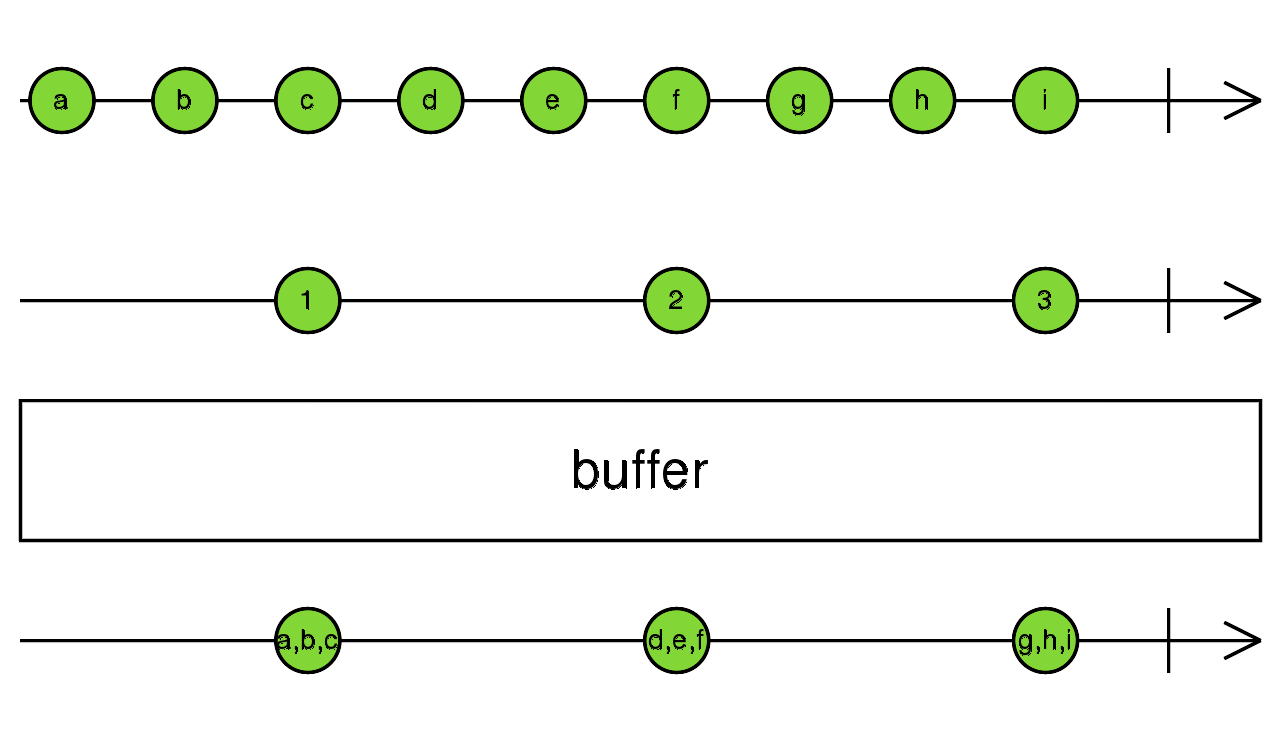
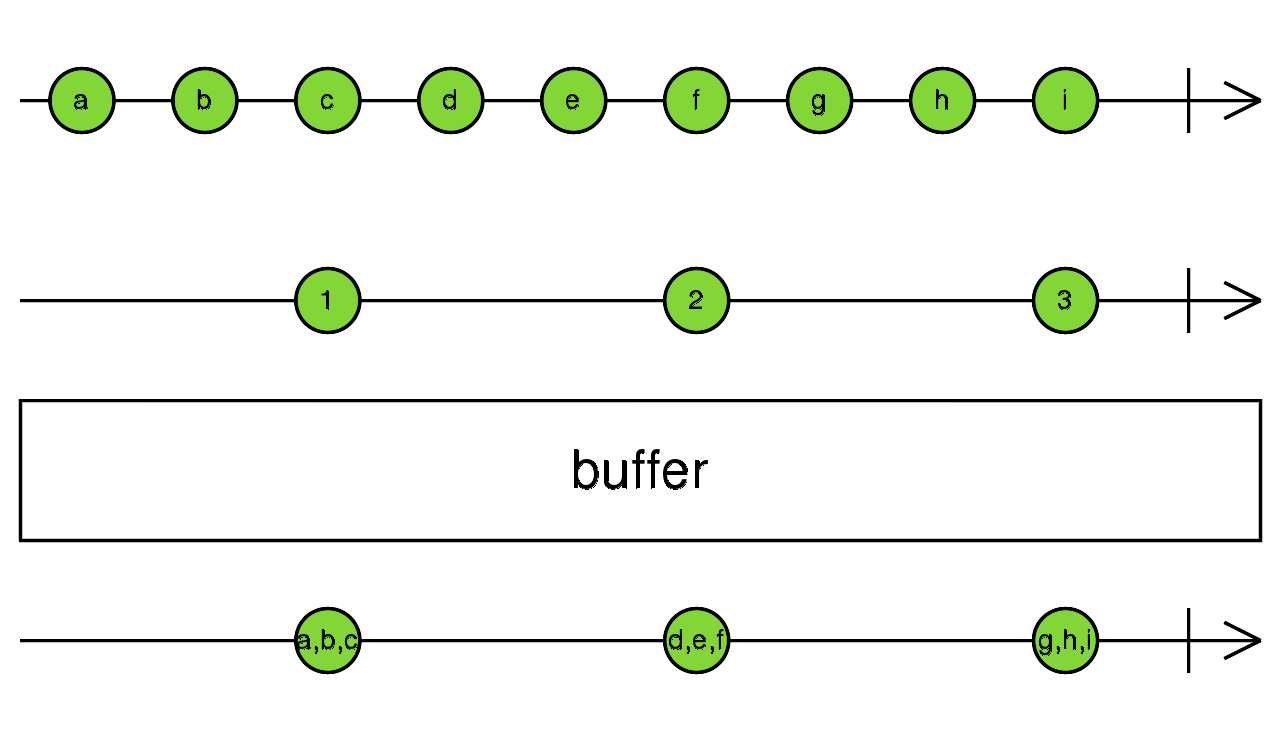
chore(tests2png): support diagrams of cold observables
Support drawing diagrams of cold observables with an offset in time to account for the time they get
subscribed to, specially important in diagrams such as for the concat operator.

For issue #697.

diff --git a/spec/helpers/tests2png/painter.js b/spec/helpers/tests2png/painter.js
@@ -9,91 +9,96 @@ var ARROW_HEAD_SIZE = 18;
 var OBSERVABLE_END_PADDING = 4 * ARROW_HEAD_SIZE;
 var MARBLE_RADIUS = 32;
 var SIN_45 = 0.707106;
+var MESSAGES_WIDTH = (CANVAS_WIDTH - 2 * CANVAS_PADDING - OBSERVABLE_END_PADDING);
 
-function getMaxFrame() {
-  var argsLength = arguments.length;
+function getMaxFrame(allStreams) {
+  var allStreamsLen = allStreams.length;
   var max = 0;
-  for (var i = 0; i < argsLength; i++) {
-    var messagesLen = arguments[i].length;
+  for (var i = 0; i < allStreamsLen; i++) {
+    var messagesLen = allStreams[i].messages.length;
     for (var j = 0; j < messagesLen; j++) {
-      if (arguments[i][j].frame > max) {
-        max = arguments[i][j].frame;
+      if (allStreams[i].messages[j].frame > max) {
+        max = allStreams[i].messages[j].frame;
       }
     }
   }
   return max;
 }
 
-function drawObservableArrow(out, y) {
+function drawObservableArrow(out, maxFrame, y, streamData) {
+  var startX = CANVAS_PADDING +
+    MESSAGES_WIDTH * (streamData.subscription.start / maxFrame);
+  var endX = (streamData.subscription.end === '100%') ?
+    CANVAS_WIDTH - CANVAS_PADDING :
+    CANVAS_PADDING + MESSAGES_WIDTH * (streamData.subscription.end / maxFrame) + OBSERVABLE_END_PADDING;
+
   out = out.stroke('#000000', 3);
-  out = out.drawLine(
-    CANVAS_PADDING,
-    y,
-    CANVAS_WIDTH - CANVAS_PADDING,
-    y);
-  out = out.drawLine(
-    CANVAS_WIDTH - CANVAS_PADDING,
-    y,
-    CANVAS_WIDTH - CANVAS_PADDING - ARROW_HEAD_SIZE * 2,
-    y - ARROW_HEAD_SIZE);
-  out = out.drawLine(
-    CANVAS_WIDTH - CANVAS_PADDING,
-    y,
-    CANVAS_WIDTH - CANVAS_PADDING - ARROW_HEAD_SIZE * 2,
-    y + ARROW_HEAD_SIZE);
+  out = out.drawLine(startX, y, endX, y);
+  out = out.drawLine(endX, y, endX - ARROW_HEAD_SIZE * 2, y - ARROW_HEAD_SIZE);
+  out = out.drawLine(endX, y, endX - ARROW_HEAD_SIZE * 2, y + ARROW_HEAD_SIZE);
   return out;
 }
 
-function drawObservableMessages(out, maxFrame, messages, y) {
-  var messagesWidth = (CANVAS_WIDTH - 2 * CANVAS_PADDING - OBSERVABLE_END_PADDING);
-  messages.forEach(function (message) {
-    var x = messagesWidth * (message.frame / maxFrame);
+function drawMarble(out, x, y, content) {
+  out = out.stroke('#000000', 3);
+  out = out.fill('#82D736');
+  out = out.drawEllipse(x, y, MARBLE_RADIUS, MARBLE_RADIUS, 0, 360);
+
+  out = out.strokeWidth(-1);
+  out = out.fill('#000000');
+  out = out.font('helvetica', 28);
+  out = out.draw(
+    'translate ' + (x - CANVAS_WIDTH * 0.5) + ',' + (y - canvasHeight * 0.5),
+    'gravity Center',
+    'text 0,0',
+    String('"' + content + '"'));
+  return out;
+}
+
+function drawError(out, x, y) {
+  out = out.stroke('#000000', 3);
+  out = out.drawLine(
+    x - MARBLE_RADIUS * SIN_45, y - MARBLE_RADIUS * SIN_45,
+    x + MARBLE_RADIUS * SIN_45, y + MARBLE_RADIUS * SIN_45);
+  out = out.drawLine(
+    x + MARBLE_RADIUS * SIN_45, y - MARBLE_RADIUS * SIN_45,
+    x - MARBLE_RADIUS * SIN_45, y + MARBLE_RADIUS * SIN_45);
+  return out;
+}
+
+function drawComplete(out, x, y) {
+  out = out.stroke('#000000', 3);
+  out = out.drawLine(x, y - MARBLE_RADIUS, x, y + MARBLE_RADIUS);
+  return out;
+}
+
+function drawObservableMessages(out, maxFrame, y, streamData) {
+  var startX = CANVAS_PADDING +
+    MESSAGES_WIDTH * (streamData.subscription.start / maxFrame);
+
+  streamData.messages.forEach(function (message) {
+    var x = startX + MESSAGES_WIDTH * (message.frame / maxFrame);
     switch (message.notification.kind) {
-      case 'N':
-        out = out.stroke('#000000', 3);
-        out = out.fill('#82D736');
-        out = out.drawEllipse(x, y, MARBLE_RADIUS, MARBLE_RADIUS, 0, 360);
-
-        out = out.strokeWidth(-1);
-        out = out.fill('#000000');
-        out = out.font('helvetica', 28);
-        out = out.draw(
-          'translate ' + (x - CANVAS_WIDTH * 0.5) + ',' + (y - canvasHeight * 0.5),
-          'gravity Center',
-          'text 0,0',
-          String('"'+message.notification.value+'"'));
-        break;
-
-      case 'E':
-        out = out.stroke('#000000', 3);
-        out = out.drawLine(
-          x - MARBLE_RADIUS * SIN_45, y - MARBLE_RADIUS * SIN_45,
-          x + MARBLE_RADIUS * SIN_45, y + MARBLE_RADIUS * SIN_45);
-        out = out.drawLine(
-          x + MARBLE_RADIUS * SIN_45, y - MARBLE_RADIUS * SIN_45,
-          x - MARBLE_RADIUS * SIN_45, y + MARBLE_RADIUS * SIN_45);
-        break;
-
-      case 'C':
-        out = out.stroke('#000000', 3);
-        out = out.drawLine(x, y - MARBLE_RADIUS, x, y + MARBLE_RADIUS);
-        break;
+    case 'N': out = drawMarble(out, x, y, message.notification.value); break;
+    case 'E': out = drawError(out, x, y); break;
+    case 'C': out = drawComplete(out, x, y); break;
+    default: break;
     }
   });
   return out;
 }
 
-function drawInputObservable(out, testMessages, index, maxFrame) {
+function drawInputObservable(out, maxFrame, index, streamData) {
   var y = OBSERVABLE_HEIGHT * (index + 0.5);
-  out = drawObservableArrow(out, y);
-  out = drawObservableMessages(out, maxFrame, testMessages, y);
+  out = drawObservableArrow(out, maxFrame, y, streamData);
+  out = drawObservableMessages(out, maxFrame, y, streamData);
   return out;
 }
 
-function drawOutputObservable(out, testMessages, numInputs, maxFrame) {
+function drawOutputObservable(out, maxFrame, numInputs, streamData) {
   var y = (numInputs + 0.5) * OBSERVABLE_HEIGHT + OPERATOR_HEIGHT;
-  out = drawObservableArrow(out, y);
-  out = drawObservableMessages(out, maxFrame, testMessages, y);
+  out = drawObservableArrow(out, maxFrame, y, streamData);
+  out = drawObservableMessages(out, maxFrame, y, streamData);
   return out;
 }
 
@@ -116,7 +121,7 @@ function drawOperator(out, label, numInputs) {
 }
 
 module.exports = function painter(inputStreams, operatorLabel, outputStream) {
-  var maxFrame = getMaxFrame(inputStreams, outputStream);
+  var maxFrame = getMaxFrame(inputStreams.concat(outputStream));
   canvasHeight =
     inputStreams.length * OBSERVABLE_HEIGHT +
     OPERATOR_HEIGHT +
@@ -125,10 +130,10 @@ module.exports = function painter(inputStreams, operatorLabel, outputStream) {
   var out;
   out = gm(CANVAS_WIDTH, canvasHeight, '#ffffff');
   inputStreams.forEach(function (inputTestMessages, index) {
-    out = drawInputObservable(out, inputTestMessages, index, maxFrame);
+    out = drawInputObservable(out, maxFrame, index, inputTestMessages);
   });
   out = drawOperator(out, operatorLabel, inputStreams.length);
-  out = drawOutputObservable(out, outputStream, inputStreams.length, maxFrame);
+  out = drawOutputObservable(out, maxFrame, inputStreams.length, outputStream);
 
   out.write('./img/' + operatorLabel + '.png', function (err) {
     if (err) {

diff --git a/spec/helpers/tests2png/diagram-test-runner.js b/spec/helpers/tests2png/diagram-test-runner.js
@@ -10,6 +10,39 @@ global.hot = marbleHelpers.hot;
 global.expectObservable = marbleHelpers.expectObservable;
 global.expectSubscriptions = marbleHelpers.expectSubscriptions;
 
+function getInputStreams(rxTestScheduler) {
+  return Array.prototype.concat.call([],
+    rxTestScheduler.hotObservables
+      .map(function (hot) {
+        return {
+          messages: hot.messages,
+          subscription: {start: 0, end: '100%'},
+        };
+      })
+      .slice(),
+    rxTestScheduler.coldObservables
+      .map(function (cold) {
+        return {
+          messages: cold.messages,
+          cold: cold,
+        };
+      })
+      .slice()
+  );
+}
+
+function updateInputStreamsPostFlush(inputStreams, rxTestScheduler) {
+  return inputStreams.map(function (singleInputStream) {
+    if (singleInputStream.cold) {
+      singleInputStream.subscription = {
+        start: singleInputStream.cold.subscriptions[0].subscribedFrame,
+        end: singleInputStream.cold.subscriptions[0].unsubscribedFrame,
+      };
+    }
+    return singleInputStream;
+  });
+}
+
 var glit = global.it;
 
 global.it = function (description, specFn, timeout) { };
@@ -21,15 +54,17 @@ global.it.asDiagram = function asDiagram(operatorLabel) {
         var outputStream;
         global.rxTestScheduler = new Rx.TestScheduler(function (actual) {
           if (Array.isArray(actual) && typeof actual[0].frame === 'number') {
-            outputStream = actual;
+            outputStream = {
+              messages: actual,
+              subscription: {start: 0, end: '100%'}
+            };
           }
           return true;
         });
         specFn();
-        var inputStreams = global.rxTestScheduler.hotObservables
-          .map(function (hot) { return hot.messages; })
-          .slice();
+        var inputStreams = getInputStreams(global.rxTestScheduler);
         global.rxTestScheduler.flush();
+        inputStreams = updateInputStreamsPostFlush(inputStreams, rxTestScheduler);
         painter(inputStreams, operatorLabel, outputStream);
         console.log('Painted img/' + operatorLabel + '.png');
       });

diff --git a/spec/operators/count-spec.js b/spec/operators/count-spec.js
@@ -3,6 +3,15 @@ var Rx = require('../../dist/cjs/Rx');
 var Observable = Rx.Observable;
 
 describe('count', function () {
+  it.asDiagram('count')('should count the values of an observable', function () {
+    var source = hot('--a--b--c--|');
+    var subs =       '^          !';
+    var expected =   '-----------(x|)';
+
+    expectObservable(source.count()).toBe(expected, {x: 3});
+    expectSubscriptions(source.subscriptions).toBe(subs);
+  });
+
   it('should be never when source is never', function () {
     var e1 =  cold('-');
     var e1subs =   '^';
@@ -46,15 +55,6 @@ describe('count', function () {
 
     expectObservable(e1.count()).toBe(expected, { w: 1 });
     expectSubscriptions(e1.subscriptions).toBe(e1subs);
-  });
-
-  it('should count the values of an observable', function () {
-    var source = hot('--a--b--c--|');
-    var subs =       '^          !';
-    var expected =   '-----------(x|)';
-
-    expectObservable(source.count()).toBe(expected, {x: 3});
-    expectSubscriptions(source.subscriptions).toBe(subs);
   });
 
   it('should count the values of an ongoing hot observable', function () {

diff --git a/src/testing/TestScheduler.ts b/src/testing/TestScheduler.ts
@@ -18,6 +18,7 @@ export type subscriptionLogsToBeFn = (marbles: string | string[]) => void;
 
 export class TestScheduler extends VirtualTimeScheduler {
   private hotObservables: HotObservable<any>[] = [];
+  private coldObservables: ColdObservable<any>[] = [];
   private flushTests: FlushableTest[] = [];
 
   constructor(public assertDeepEqual: (actual: any, expected: any) => boolean | void) {
@@ -32,7 +33,9 @@ export class TestScheduler extends VirtualTimeScheduler {
       throw new Error('Cold observable cannot have unsubscription marker "!"');
     }
     const messages = TestScheduler.parseMarbles(marbles, values, error);
-    return new ColdObservable(messages, this);
+    const cold = new ColdObservable(messages, this);
+    this.coldObservables.push(cold);
+    return cold;
   }
 
   createHotObservable<T>(marbles: string, values?: any, error?: any): Subject<T> {

diff --git a/spec/operators/bufferTime-spec.js b/spec/operators/bufferTime-spec.js
@@ -4,9 +4,9 @@ var Observable = Rx.Observable;
 
 describe('Observable.prototype.bufferTime', function () {
   it.asDiagram('bufferTime(100)')('should emit buffers at intervals', function () {
-    var e1 =   hot('---a---b---c---d---e---f---g---|');
-    var subs =     '^                              !';
-    var expected = '----------w---------x---------y(z|)';
+    var e1 =   hot('---a---b---c---d---e---f---g-----|');
+    var subs =     '^                                !';
+    var expected = '----------w---------x---------y--(z|)';
     var values = {
       w: ['a','b'],
       x: ['c','d','e'],

diff --git a/spec/operators/concat-spec.js b/spec/operators/concat-spec.js
@@ -2,6 +2,14 @@
 var Rx = require('../../dist/cjs/Rx');
 
 describe('Observable.prototype.concat()', function () {
+  it.asDiagram('concat')('should concatenate two cold observables', function () {
+    var e1 =   cold('--a--b-|');
+    var e2 =   cold(       '--x---y--|');
+    var expected =  '--a--b---x---y--|';
+
+    expectObservable(e1.concat(e2, rxTestScheduler)).toBe(expected);
+  });
+
   it('should complete without emit if both sources are empty', function () {
     var e1 =   cold('--|');
     var e1subs =    '^ !';

diff --git a/spec/operators/bufferWhen-spec.js b/spec/operators/bufferWhen-spec.js
@@ -3,7 +3,7 @@ var Rx = require('../../dist/cjs/Rx');
 var Observable = Rx.Observable;
 
 describe('Observable.prototype.bufferWhen', function () {
-  it('should emit buffers that close and reopen', function () {
+  it.asDiagram('bufferWhen')('should emit buffers that close and reopen', function () {
     var e1 = hot('--a--^---b---c---d---e---f---g---h------|');
     var e2 = cold(    '---------------(s|)');
     //                                ---------------(s|)
